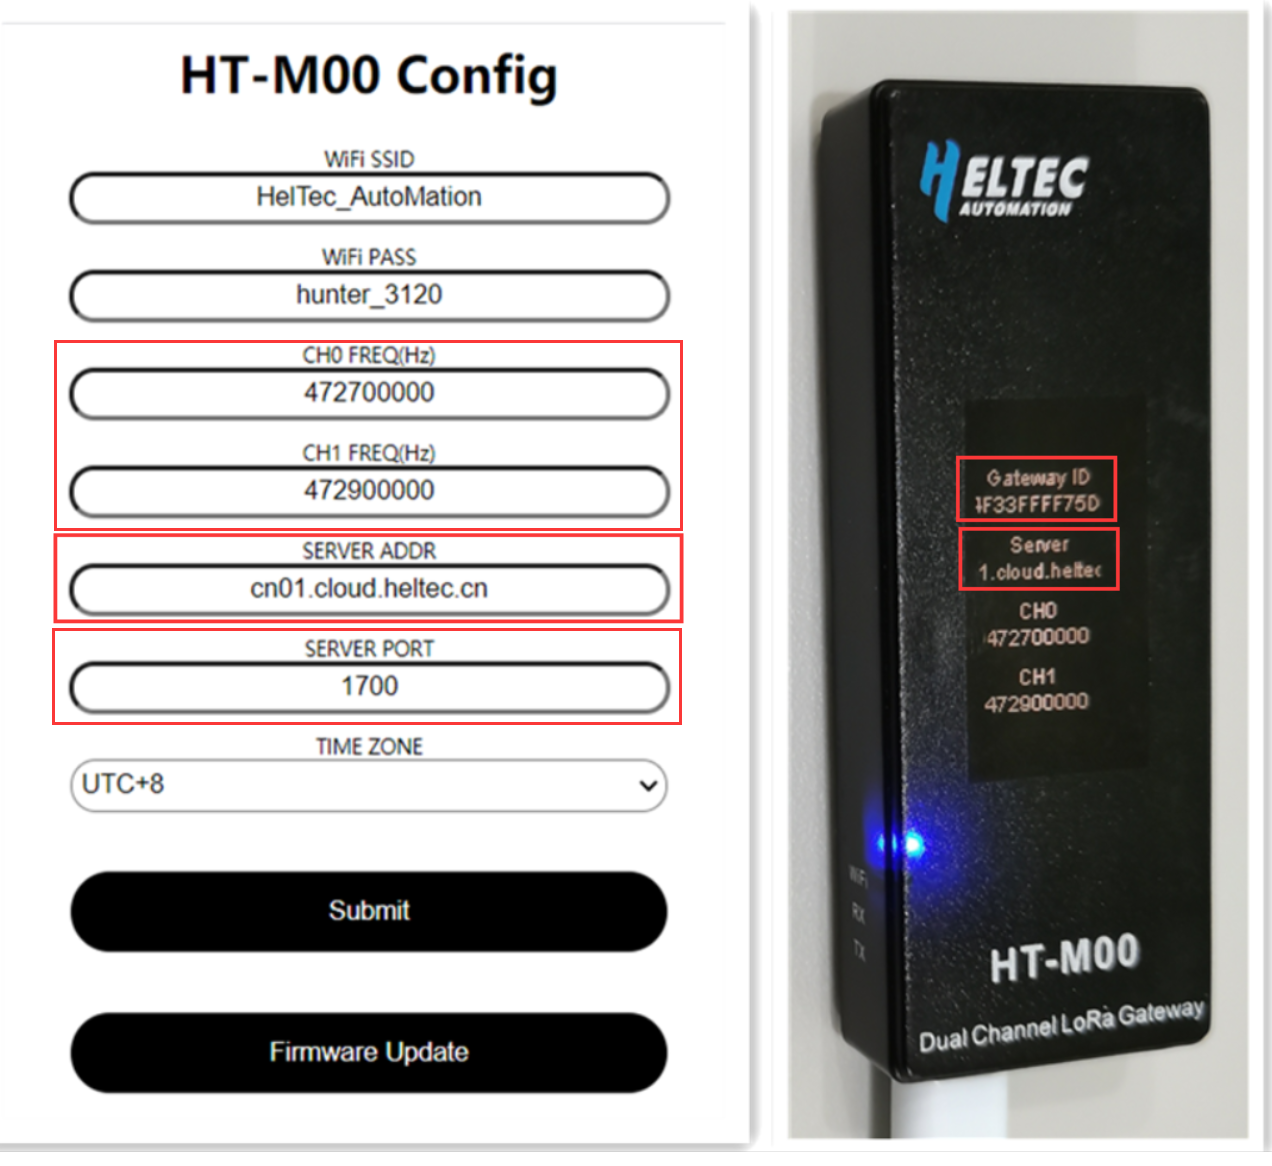
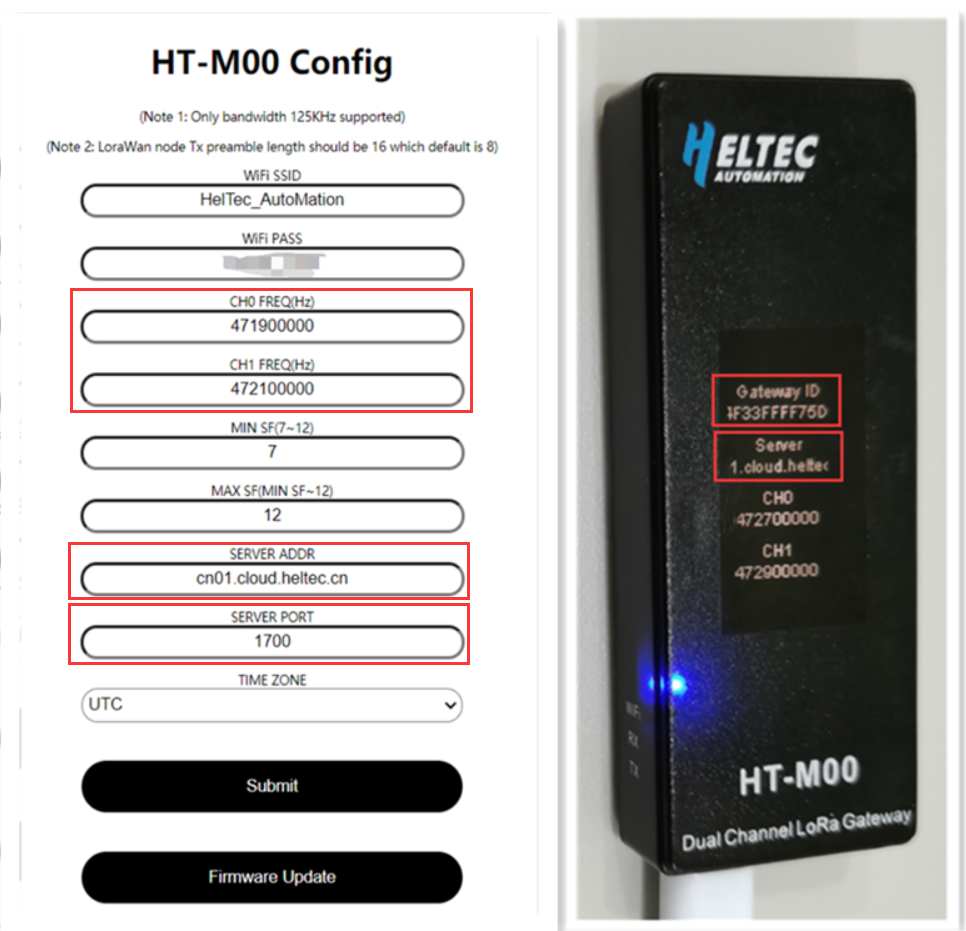
Update HT-M00 relevant documents

diff --git a/en/source/gateway/ht-m00/qucik_start.md b/en/source/gateway/ht-m00/qucik_start.md
@@ -27,11 +27,11 @@ The HT-M00 gateway has been burned with related programs before leaving the fact
 
 ![](img/quick_start/02.png)
 
-- At this point, find the WiFi named "HT_M00", connect to the WiFi with the password "12345678", and then enter "192.168.4.1".
+- At this point, find the WiFi named "M00_XXXX", connect to the WiFi with the password "heltec.org", and then enter "192.168.4.1".
 
-![](img/quick_start/03.png)
+  ![](img/quick_start/03.png)
 
-- In the page shown above, configure the WiFi information that HT-M00 needs to connect to, gateway channel frequency, server address and port, time zone, and click "Submit" after the configuration is complete. At the same time, we will put the relevant firmware of HT-M00 on this webpage, and click "Firmware Update" to update accordingly.
+- In the page shown above, configure the WiFi information that HT-M00 needs to connect to, gateway channel frequency, sf, server address and port, time zone, and click "Submit" after the configuration is complete. At the same time, we will put the relevant firmware of HT-M00 on this webpage, and click "Firmware Update" to update accordingly.
 - The gateway will restart after the configuration is completed and submitted. When the gateway is turned on, it will automatically connect to the configured WiFi. If the connection fails, it will restart again until the connection is successful.
 
 ![](img/quick_start/04.png)
